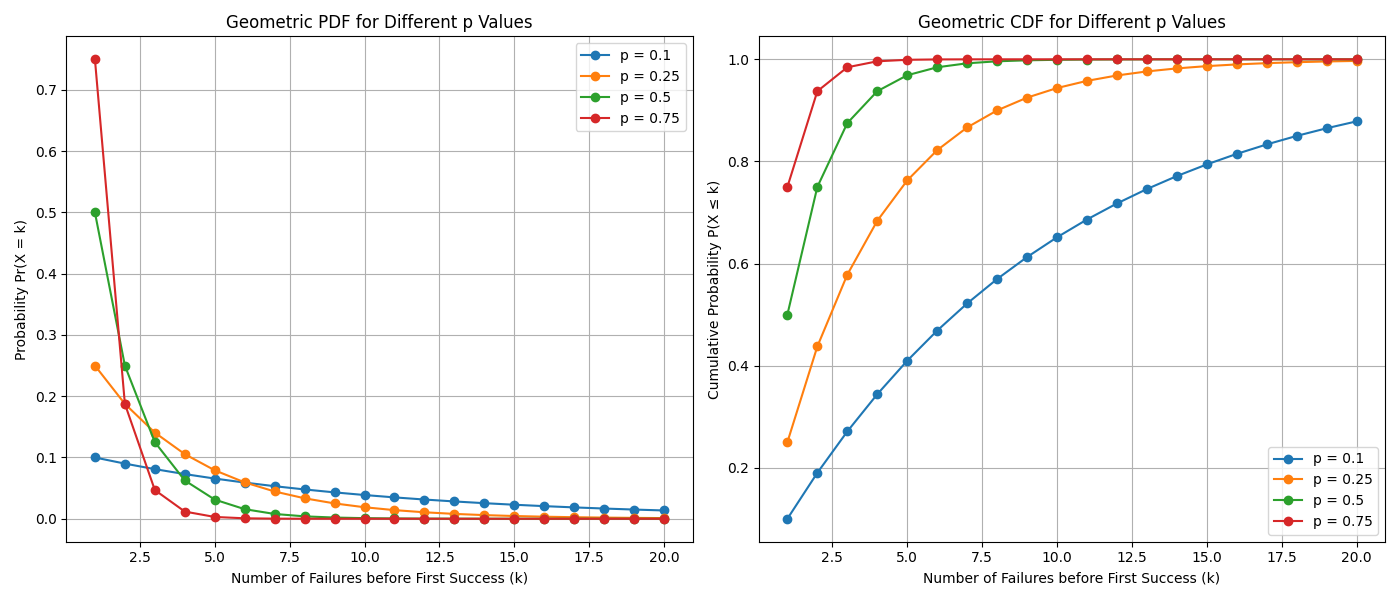
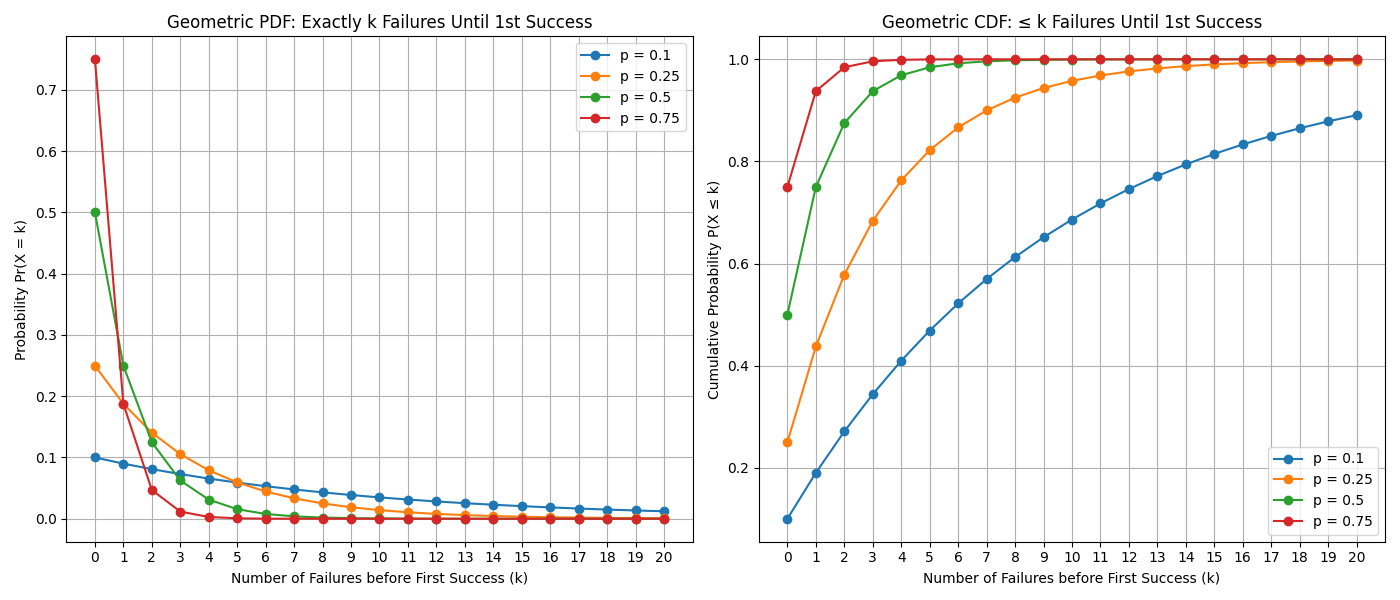
First draft complete

diff --git a/docusaurus/docs/protocol/primitives/geometric_pdf_vs_cdf.py b/docusaurus/docs/protocol/primitives/geometric_pdf_vs_cdf.py
@@ -3,7 +3,7 @@ import numpy as np
 
 # Define different ProofRequestProbability values
 p_values = [0.1, 0.25, 0.5, 0.75]  # Modify as needed
-k_values = np.arange(1, 21)  # Range of k values
+k_values = np.arange(0, 21)  # Range of k values starting from 0
 
 # Create subplots side by side
 fig, (ax1, ax2) = plt.subplots(1, 2, figsize=(14, 6))
@@ -11,24 +11,26 @@ fig, (ax1, ax2) = plt.subplots(1, 2, figsize=(14, 6))
 # Plot Geometric PDF for different p values
 for p in p_values:
     q = 1 - p
-    pdf_values = (1 - p) ** (k_values - 1) * p
+    pdf_values = p * (1 - p) ** k_values
     ax1.plot(k_values, pdf_values, marker="o", linestyle="-", label=f"p = {p}")
 
-ax1.set_title("Geometric PDF for Different p Values")
+ax1.set_title("Geometric PDF: Exactly k Failures Until 1st Success")
 ax1.set_xlabel("Number of Failures before First Success (k)")
 ax1.set_ylabel("Probability Pr(X = k)")
+ax1.set_xticks(k_values)
 ax1.grid(True)
 ax1.legend()
 
 # Plot Geometric CDF for different p values
 for p in p_values:
     q = 1 - p
-    cdf_values = 1 - (1 - p) ** k_values
+    cdf_values = 1 - (1 - p) ** (k_values + 1)
     ax2.plot(k_values, cdf_values, marker="o", linestyle="-", label=f"p = {p}")
 
-ax2.set_title("Geometric CDF for Different p Values")
+ax2.set_title("Geometric CDF: ≤ k Failures Until 1st Success")
 ax2.set_xlabel("Number of Failures before First Success (k)")
 ax2.set_ylabel("Cumulative Probability P(X ≤ k)")
+ax2.set_xticks(k_values)
 ax2.grid(True)
 ax2.legend()
 

diff --git a/docusaurus/docs/protocol/primitives/probabilistic_proofs.md b/docusaurus/docs/protocol/primitives/probabilistic_proofs.md
@@ -7,6 +7,7 @@ sidebar_position: 3
 
 Probabilistic Proofs is a method to scale Pocket Network indefinitely.
 
+- [Abstract](#abstract)
 - [Problem Statement](#problem-statement)
 - [Example Scenario](#example-scenario)
 - [High Level Approach](#high-level-approach)
@@ -16,8 +17,9 @@ Probabilistic Proofs is a method to scale Pocket Network indefinitely.
   - [Defining a Single (Bernoulli) Trial](#defining-a-single-bernoulli-trial)
   - [Onchain Governance Parameters](#onchain-governance-parameters)
   - [Dishonest Supplier: Calculating the Expected Value](#dishonest-supplier-calculating-the-expected-value)
-    - [Modelling a Dishonest Supplier's Strategy using a Geometric Distribution](#modelling-a-dishonest-suppliers-strategy-using-a-geometric-distribution)
+    - [Modelling a Dishonest Supplier's Strategy using a Geometric PDF (Probability Distribution Function)](#modelling-a-dishonest-suppliers-strategy-using-a-geometric-pdf-probability-distribution-function)
     - [Expected Number of False Claims (Failures) Before Getting Caught (Success)](#expected-number-of-false-claims-failures-before-getting-caught-success)
+    - [Modelling a Dishonest Supplier's Strategy using a Geometric CDF (Cumulative Distribution Function)](#modelling-a-dishonest-suppliers-strategy-using-a-geometric-cdf-cumulative-distribution-function)
     - [Total Rewards: Expected Value Calculation for Dishonest Supplier Before Penalty](#total-rewards-expected-value-calculation-for-dishonest-supplier-before-penalty)
     - [Expected Penalty: Slashing amount for Dishonest Supplier](#expected-penalty-slashing-amount-for-dishonest-supplier)
     - [Total Profit: Expected Value Calculation for Dishonest Supplier AFTER Penalty](#total-profit-expected-value-calculation-for-dishonest-supplier-after-penalty)
@@ -40,7 +42,6 @@ Probabilistic Proofs is a method to scale Pocket Network indefinitely.
       - [Normal Distribution](#normal-distribution)
       - [Non-Normal Distribution](#non-normal-distribution)
     - [Considerations for `ProofRequestProbability` (`p`)](#considerations-for-proofrequestprobability-p)
-      - [Geometric CDF vs Geometric PDF when revisiting value `p`](#geometric-cdf-vs-geometric-pdf-when-revisiting-value-p)
       - [Maximizing `Pr(X<=k)` to ensure `k or less` failures (Supplier escapes without penalty)](#maximizing-prxk-to-ensure-k-or-less-failures-supplier-escapes-without-penalty)
 - [Conclusions for Modelling](#conclusions-for-modelling)
 - [Morse Based Value Selection](#morse-based-value-selection)
@@ -48,10 +49,31 @@ Probabilistic Proofs is a method to scale Pocket Network indefinitely.
   - [Calculating `p`: `ProofRequestProbability`](#calculating-p-proofrequestprobability)
   - [Calculating `S`: `ProofMissingPenalty`](#calculating-s-proofmissingpenalty)
 - [Future Work](#future-work)
-  - [](#)
-  - [Onchain Closed Feedback Loop](#onchain-closed-feedback-loop)
-  - [Reviewing External Literature](#reviewing-external-literature)
-- [References](#references)
+
+## Abstract
+
+This document explains and walks through the mechanism of Probabilistic Proofs needed
+to scale Pocket Network indefinitely. Precisely, it'll allow an unlimited number of
+sessions that pair (Applications, Suppliers, Services) by requiring a single Claim
+for each such session, but only require a proof probabilistically if it is below a
+specific threshold.
+
+External stakeholders (i.e. DAO/Foundation) need to be involved in adjusting the
+`ProofRequirementThreshold` by statistically analyzing onchain data, along with selecting
+an appropriate `ProofRequestProbability` that balances scalability and security. These values
+lead to calculating expected rewards and penalties of honest and dishonest Suppliers respectively,
+which should drive the decision for what `SupplierMinStake` should be. Reasonably
+selected values can be chosen to easily scale the network by `100x` without compromising
+security.
+
+The results show that choosing a value of `20 POKT` for `ProofRequirementThreshold`,
+the `95th percentile` of all Claims, along with a `ProofRequestProbability` of `0.01`,
+can enable `100x` scalability of the network if the `Slashing penalty` for invalid/missing
+proofs is set to `2,000 POKT`. As long as the minimum required stake for Suppliers exceeds
+this value, the funds will be available for slashing staking is set to `2,000 POKT`.
+
+Under future work, we look at a potential attack vector that still needs to be considered,
+along with further research on the topic.
 
 ## Problem Statement
 
@@ -209,7 +231,7 @@ We note that `R` is variable and that `SupplierMinStake` is not taken into accou
 As will be demonstrated by the end of this document:
 
 - Reward per Claim (`R`) will be equal to the `ProofRequirementThreshold` (POKT)
-- Penalty (`S`) will be equal to the `SupplierMinStake` (in POKT)
+- Penalty (`S`) will be less than or equal to the `SupplierMinStake` (in POKT)
 
 ### Dishonest Supplier: Calculating the Expected Value
 
@@ -218,7 +240,7 @@ The dishonest Supplier's strategy:
 - Submit false Claims repeatedly, hoping not to be selected for Proof submission.
 - Accept that eventually, they will be caught and penalized.
 
-#### Modelling a Dishonest Supplier's Strategy using a Geometric Distribution
+#### Modelling a Dishonest Supplier's Strategy using a Geometric PDF (Probability Distribution Function)
 
 The number of successful false Claims before getting caught follows a [Geometric distribution](https://en.wikipedia.org/wiki/Geometric_distribution):
 
@@ -236,6 +258,29 @@ Recall:
 
 - **Failure**: The network does not catch a dishonest Supplier
 - **Success**: The network catches a dishonest Supplier
+
+#### Modelling a Dishonest Supplier's Strategy using a Geometric CDF (Cumulative Distribution Function)
+
+Above, we have been tracking the probability that `Pr(X=k+1)`, the probability
+of `k` failures (Supplier escapes without penalty) until a single success (Supplier)
+is penalized. This can be modeled using a Geometric PDF (Probability Distribution Function).
+
+In practice, we need to track the likelihood of `k or less` failures `Pr(X<=k)`,
+until a single success. This can be modeled using a Geometric CDF.
+
+To simplify the math, we'll be using the Expected Value of a Geometric PDF
+due to its [simpler proof formulation](https://en.wikipedia.org/wiki/Geometric_distribution#Proof_of_expected_value), guaranteeing the results be **AT LEAST**
+as secure when compared to the Geometric CDF.
+
+Visual intuition of the two can be seen below:
+
+![Geometric CDF for Different p Values](./geometric_pdf_vs_cdf.png)
+
+:::tip
+
+You can generate the graph above with `make geometric_pdf_vs_cdf.py`
+
+:::
 
 #### Total Rewards: Expected Value Calculation for Dishonest Supplier Before Penalty
 
@@ -258,7 +303,7 @@ $$ E[\text{Total Profit}] = E[\text{Total Rewards}] - S = R \cdot \frac{q}{p} - 
 
 - **Expected Rewards per Claim**: $$ E[\text{Reward per Claim}] = R $$
 - **No Penalties**: Since the honest Supplier always provides valid Proofs when required, they avoid penalties.
-- **Expected Profit for Honest Supplier**:
+- **Expected Profit for Honest Supplier (1 Claim)**:
 
   $$ E[\text{Total Profit}] = R $$
 
@@ -454,35 +499,7 @@ The number of relays in the network scales inversely to `ProofRequestProbability
 - `ProofRequestProbability` = 0.25 -> 4x scale
 - `ProofRequestProbability` = 0.1 -> 10x scale
 - `ProofRequestProbability` = 0.01 -> 100x scale
-
-##### Geometric CDF vs Geometric PDF when revisiting value `p`
-
-Up until now, we have been tracking the probability that `Pr(X=k)`, the probability
-of `k` failures (Supplier escapes without penalty) until a single success (Supplier)
-is penalized. This can be modeled using a Geometric PDF (Probability Distribution Function).
-
-$$ p = ProofRequestProbability $$
-$$ q = 1 - p $$
-$$ Pr(X=k) = (1-p)^{k-1}p $$
-$$ k = \frac{ln(\frac{Pr(X=k)}{p})}{ln(1-p)} + 1 $$
-
-However, instead, we need to track the likelihood of `k or less` failures `Pr(X<=k)`,
-until a single success. This can be modeled using a Geometric CDF (Cumulative Distribution Function).
-
-$$ x ∈ ℝ ∣ 0 ≤ x < 1 $$
-$$ p = ProofRequestProbability $$
-$$ P(X<=k) = 1 - (1 - p)^{k} $$
-$$ k = \frac{log(1 - P(X<=k))}{log(1 - p)} $$
-
-Visual intuition of the two can be seen below:
-
-![Geometric CDF for Different p Values](./geometric_pdf_vs_cdf.png)
-
-:::tip
-
-You can generate the graph above with `make geometric_pdf_vs_cdf.py`
-
-:::
+- `ProofRequestProbability` = 0.001 -> 1000x scale
 
 ##### Maximizing `Pr(X<=k)` to ensure `k or less` failures (Supplier escapes without penalty)
 
@@ -496,9 +513,9 @@ perspective of what the probabilities of success and failure are.
 
 By modeling the attack using a geometric distributions and calculating expected values, we can:
 
-- Determine `ProofRequirementThreshold` using statical onchain data
-- Manually adjust `ProofRequestProbability = p` to adjust scalability
-- Compute `SupplierMinStake = S` to deter dishonest behavior
+- Determine `R = ProofRequirementThreshold` using statical onchain data
+- Manually adjust `p = ProofRequestProbability` to adjust scalability
+- Compute `S ≤ SupplierMinStake` to deter dishonest behavior
 - Determine the necessary penalty `S` to deter dishonest behavior.
 - Ensure that honest Suppliers remain profitable while dishonest Suppliers face negative expected profits.
 
@@ -515,63 +532,28 @@ Choose `R = 20` since it is greater than `p95` of all Claims collected in Morse.
 See the original proposal from Morse available in [probabilistic_proofs_morse.md](./probabilistic_proofs_morse.md)
 and [Pocket_Network_Morse_Probabilistic_Proofs.ipynb](./Pocket_Network_Morse_Probabilistic_Proofs.ipynb) for supporting data.
 
+$$ R = 20 $$
+
 ### Calculating `p`: `ProofRequestProbability`
 
-Choose `p = 0.05` to ensure high scalability.
+Choose `p = 0.01` to ensure high scalability.
 
-Choose `Pr(X<=k) = 0.99` to ensure that `99%` of the time, a dishonest Supplier will be penalized.
-
-$$ k = \frac{log(1 - P(X<=k))}{log(1 - 0.05)} $$
-$$ k = \frac{log(1 - 0.99)}{log(1 - 0.05)} $$
-$$ k ≈ 90 $$
+$$ E[K] = \frac{q}{p} = \frac{0.99}{0.01} = 99 $$
 
 ### Calculating `S`: `ProofMissingPenalty`
 
-1. **Expected Number of False Claims Before Getting Caught**:
-
-   $$ E[K] = \frac{q}{p} = \frac{0.95}{0.05} = 19 $$
-
-2. **Expected Total Rewards**:
-
-   $$ E[\text{Total Rewards}] = R \cdot E[K] = 20 \cdot 19 = 380 $$
-
-3. **Penalty**:
-
-   $$ S = R \cdot \left( \frac{1 - p}{p} \right) = 10 \cdot \left( \frac{0.8}{0.2} \right) = 40 $$
-
-4. **Expected Profit**:
-
-   $$ E[\text{Total Profit}] = E[\text{Total Rewards}] - S = 40 - 40 = 0 $$
-
-S=R⋅(
-p
-1−p
-
-)
+$$ S = R \cdot E[K] = 20 \cdot 99 = 1980 ≈ 2,000 $$
 
 ## Future Work
 
-###
+1. **Attack Vector**: Account for the fact that a Supplier could be in multiple sessions at the same, so either:
 
-### Onchain Closed Feedback Loop
+   - The number of sessions a supplier is in will need to be limited
+   - The minimum stake amount will need to be significantly higher than the penalty to enable slashing across multiple sessions at once
 
-### Reviewing External Literature
+2. **Optimal Reward Value**: Evaluating onchain Shannon data to determine the optimal value for `R`
+3. **Closed Feedback Look**: Having `p` dynamically adjust onchain as a function of onchain data without intervention from the DAO / PNF (i.e. )
+4. Reviewing, comparing & contributing to **external literature** such as:
 
-https://research.facebook.com/publications/distributed-auditing-proofs-of-liabilities/
-https://eprint.iacr.org/2020/1568.pdf
-
-## References
-
-`ProofRequestProbability (p)` is selected as `0.25` to enable scaling the network by `4x`.
-
-`BurnForFailedClaimSubmission` - Should be set to `k * ProofRequirementThreshold` to deter `k` failures or less.
-
-`Pr(X<=k)` must be as high as possible while keeping `k` reasonably low since it'll impact the penalty for honest but faulty servicers that fail to submit a Claim within the expiration window. We are selecting `Pr(X<=k) = 0.99`
-
-$$ k = \frac{log(1 - P(X<=k))}{log(1 - p)} $$
-
-$$ k = \frac{log(1 - 0.99)}{log(1 - 0.25)} $$
-
-$$ k ≈ 16 $$
-
-Selecting `k = 16` implies that `99%` of the time, an attacker will get a penalty of `BurnForFailedClaimSubmission`, making it not worthwhile to take the risk.
+   - https://research.facebook.com/publications/distributed-auditing-proofs-of-liabilities/
+   - https://eprint.iacr.org/2020/1568.pdf
